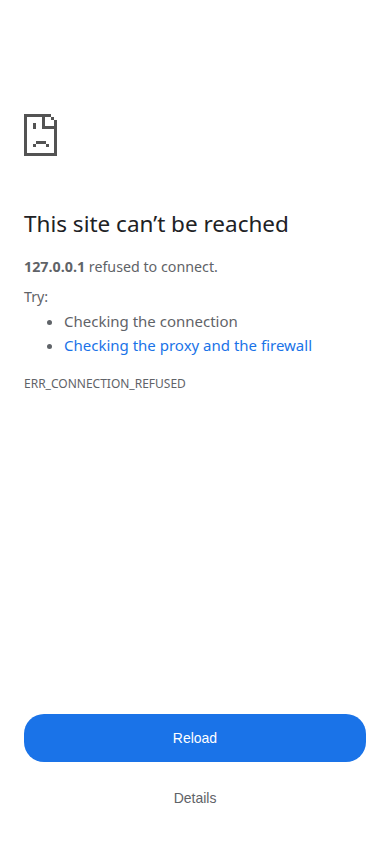
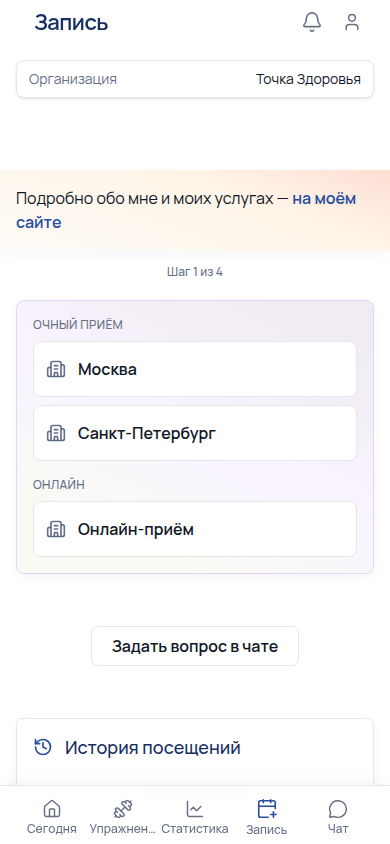
audit(patient): record typography live evidence

diff --git a/.lead/runs/patient-typography-final-20260908/AUDIT.md b/.lead/runs/patient-typography-final-20260908/AUDIT.md
@@ -2,9 +2,9 @@
 
 | Field | Value |
 | --- | --- |
-| Candidate | `3ad2f03f1adfdfe1eff8197add3d3a8535bf803e` (`fix(patient): close typography role overrides`) |
+| Candidate | `4898d33c5` (typography candidate plus final visual-token consolidation and mobile program-tab fit fix) |
 | Comparison base | `71ea8a3ca` (`feat/doctor-ui-rebuild`); `git merge-base --is-ancestor 71ea8a3ca 3ad2f03f1` passed |
-| Verdict | **BLOCKED, NOT FOR LAND** — continuation cleared the login blocker and visibly accepted Home and diary, but the isolated candidate runtime terminated while opening the remaining required patient surfaces. |
+| Verdict | **BLOCKED, NOT FOR LAND** — source consolidation and the reachable Home, diary, booking, program and mobile modal layouts pass; video/fullscreen and complete live message/comment data behavior remain unproved. |
 | Scope | Audit artifacts only; no product code, migration, DEV data/settings, shared `:5200`/`:4200`, TEST, or PROD changed. |
 
 ## Source consolidation
@@ -65,3 +65,27 @@ Pre-change screenshots were used only to check for regression or missing control
 ## Cleanup and validation
 
 The exact isolated `:5213` foreground process was stopped. The temporary `apps/webapp/.env.dev` symlink was removed only after confirming its target. The temporary Chromium profile was outside the clone and was stopped; no cookie or log file was left in the clone. No tests were added or run: this is a one-off visual/style refactor and the required acceptance method is live screenshots. Final cleanup confirms no production-code dirt; only this report, its screenshots, and the queue row are staged for the audit commit.
+
+### Lead continuation after the blocked audit
+
+The clone's dependency symlinks were found pointing at a stale completed worktree. Repointing them temporarily to the current main checkout's installed dependency directories removed the unrelated missing-export flood and made the program route render. No tracked dependency file changed.
+
+Source evidence on `4898d33c5`:
+
+- `rg -n --glob '*.tsx' --glob '*.ts' --glob '!**/patientVisual.ts' --glob '!**/patientHomeCardStyles.ts' --glob '!**/loginChrome.ts' "text-(xs|sm|base|lg|xl|[2-9]xl|\\[[^]]+\\])|font-(thin|extralight|light|normal|medium|semibold|bold|extrabold|black|\\[[^]]+\\])|leading-(none|tight|snug|normal|relaxed|loose|[3-9]|10|\\[[^]]+\\])" apps/webapp/src/app/app/patient apps/webapp/src/shared/ui/patient` returned no matches (`rg` exit `1`).
+- `rg -n -P --glob '*.tsx' --glob '*.ts' --glob '!**/patientVisual.ts' --glob '!**/patientHomeCardStyles.ts' --glob '!**/loginChrome.ts' "(?:bg|border|shadow|rounded)-\\[(?:#|rgba?\\(|[0-9])" apps/webapp/src/app/app/patient apps/webapp/src/shared/ui/patient` returned no matches (`rg` exit `1`).
+- Scoped ESLint over all touched patient TS/TSX files passed.
+- `pnpm --dir apps/webapp typecheck` passed.
+- `git diff --check` passed.
+
+Additional real captures:
+
+| Surface | Evidence | Result |
+| --- | --- | --- |
+| Booking | `screenshots/booking-mobile.png`, `screenshots/booking-desktop.png`; mobile `scrollWidth=clientWidth=390`. | PASS |
+| Program stage | Initial live capture exposed overlapping one-line tab contents after the larger type scale. `4898d33c5` changed the shared segmented tab to two semantic rows and made the supporting row use the micro role. `screenshots/treatment-stage-mobile-fixed.png` shows all three labels and values without overlap; `scrollWidth=clientWidth=390`. | PASS |
+| Patient chat modal | `screenshots/messages-mobile.png` shows the full-height mobile sheet, doctor/clinic title, composer and send control without clipping. No message was sent. | PASS (layout only) |
+| Exercise comments modal | `screenshots/comments-mobile.png` shows the same mobile sheet structure, exercise subtitle, composer and send control. The DEV fetch returned `Failed to fetch`, so message data/incremental update behavior is not accepted by this capture. | PASS (layout only), behavior BLOCKED |
+| Video/fullscreen | The assigned item route lost its browser socket during a cold compile before a usable video surface was captured. | BLOCKED |
+
+No landing or push is authorized by this report.
